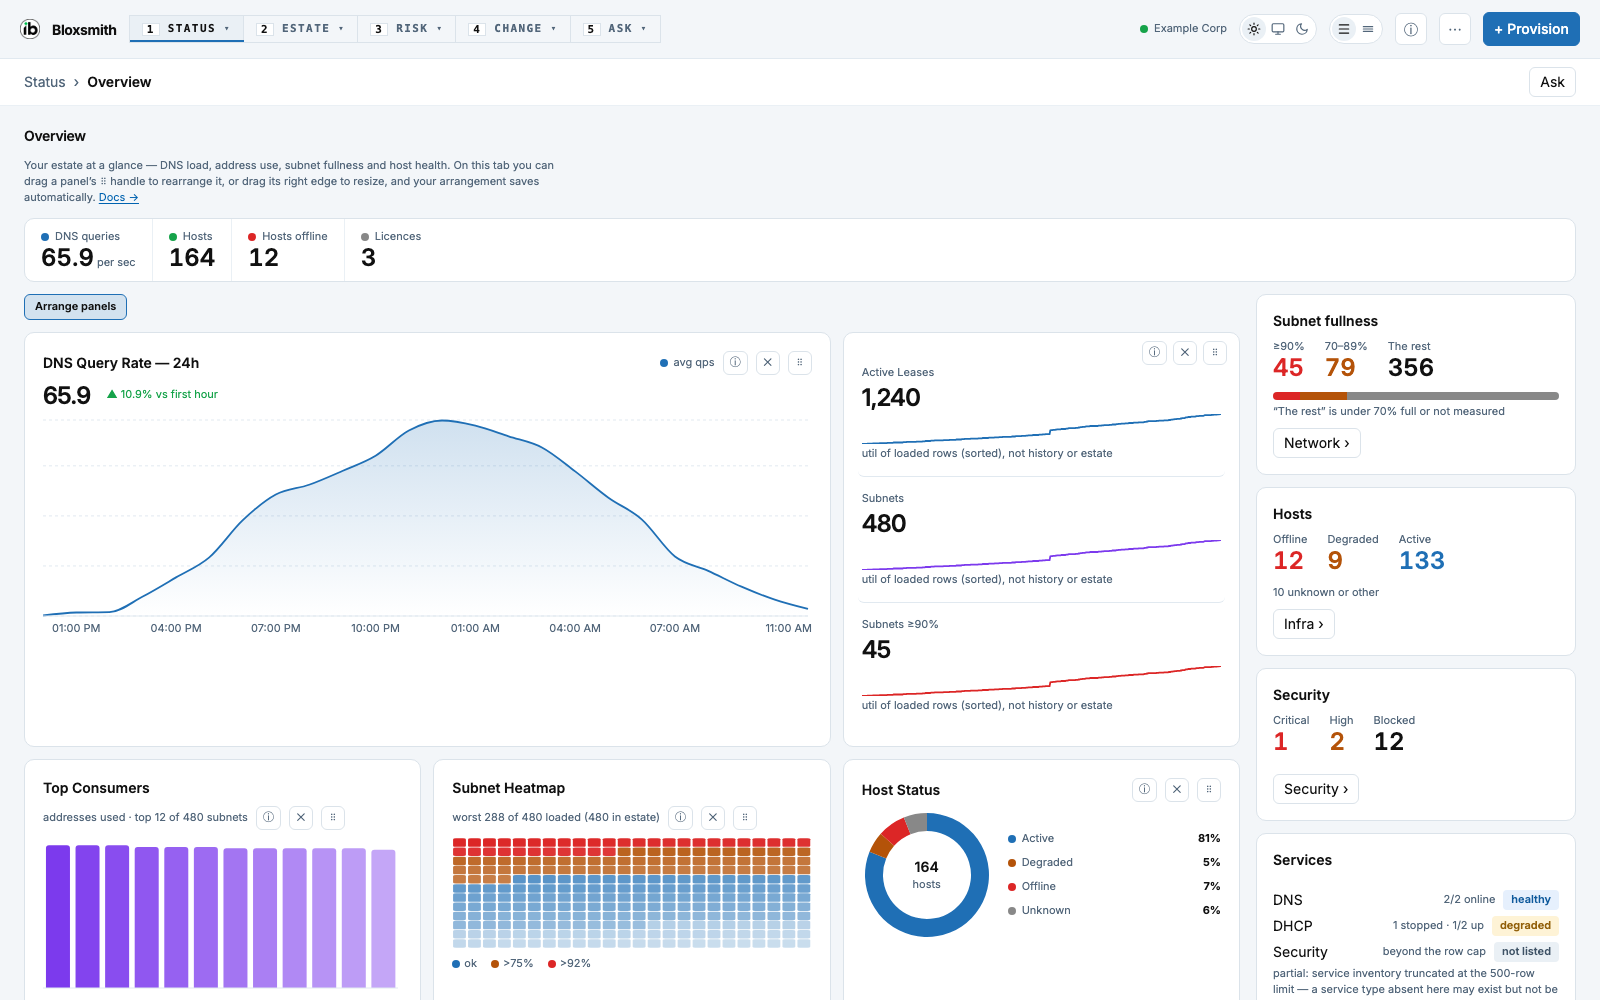
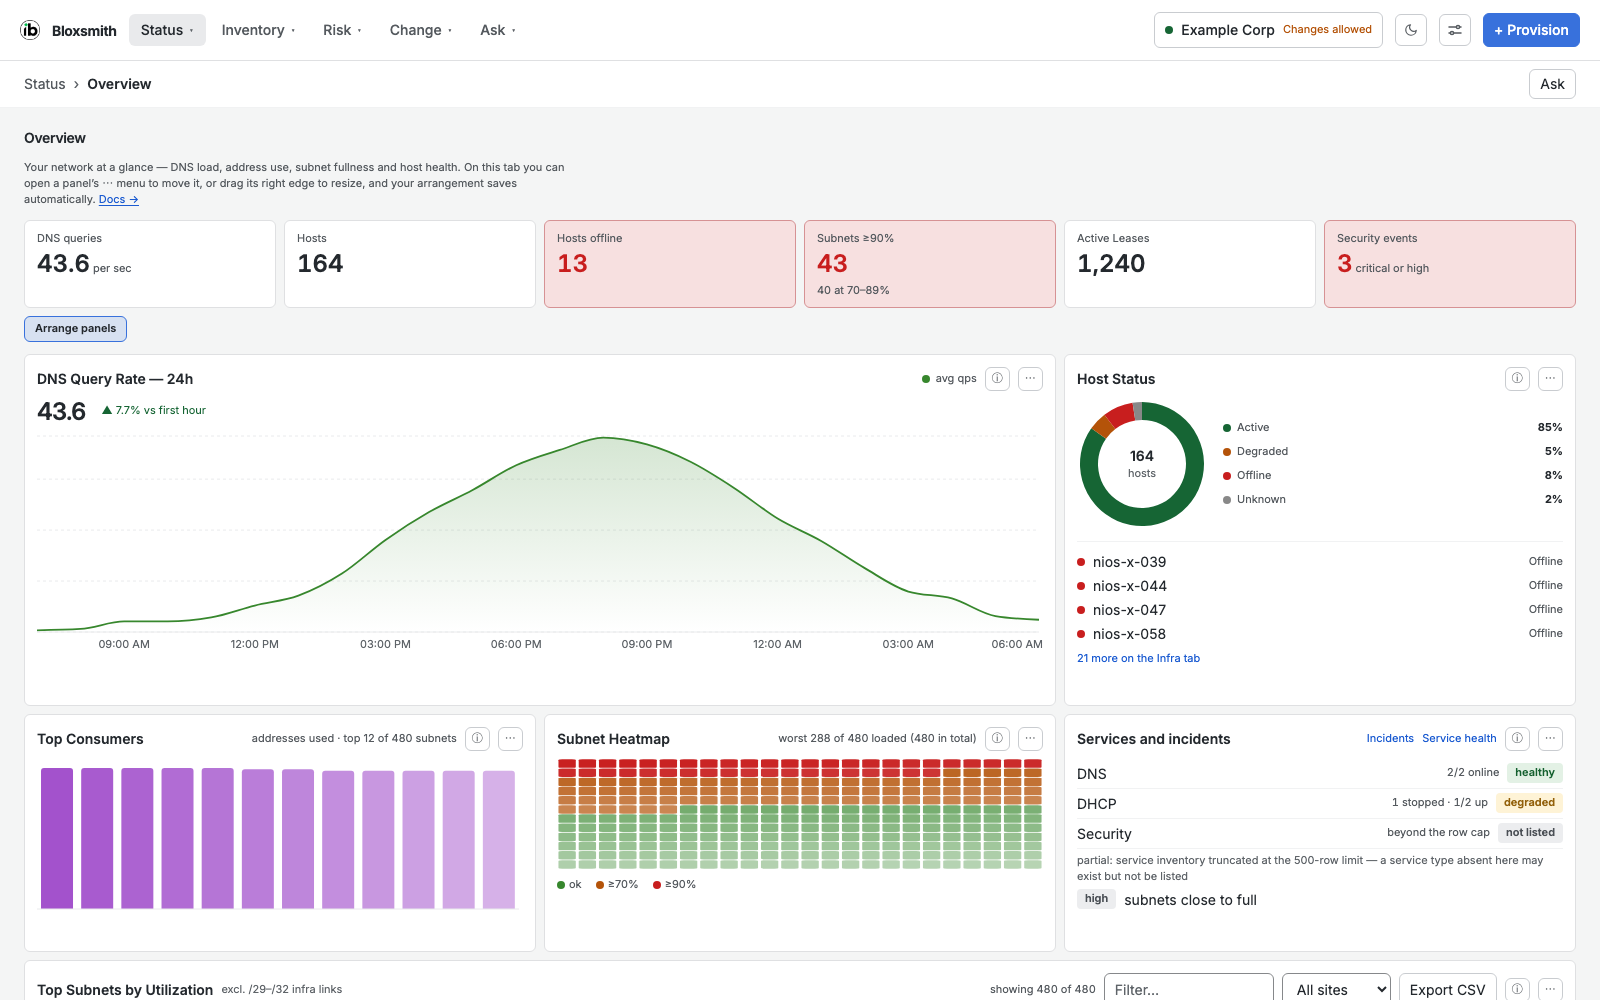
docs: README screenshots from v3.92.12, three stale lines fixed
The two README pictures showed the old menu (Estate, numbered tabs)
and colours. New ones are from the current build at 1600x1000, dark and
light, with invented data only: Example Corp, nios-x-NNN hosts, vlan-N
subnets, 10.x space.

The AI key is set under Settings > Connections now, not a sidebar. The
diagram names the REST APIs as well as /mcp. Go must be 1.26.9 or newer,
as go.mod says.

diff --git a/README.md b/README.md
@@ -212,7 +212,7 @@ See **Code signing** below.
 
 The query box needs an AI model that can call tools. Everything else works without it. The
 default is Groq, which has a free tier: get a key at <https://console.groq.com>, then add it in
-the dashboard (sidebar > **AI provider**) or set `GROQ_API_KEY`. Any OpenAI-compatible provider
+the dashboard (**Settings** > **Connections**, in the **Groq API key** box) or set `GROQ_API_KEY`. Any OpenAI-compatible provider
 works: [docs/DEPLOYMENT.md](docs/DEPLOYMENT.md#using-a-different-llm-provider).
 
 </details>
@@ -431,19 +431,19 @@ Report signing problems in the GitHub issue tracker.
 <summary><b>How it works</b></summary>
 
 ```
-browser --HTTP--> bloxsmith (Go program) --MCP--> csp.infoblox.com/mcp
+browser --HTTP--> bloxsmith (Go program) --HTTPS--> csp.infoblox.com (REST APIs and /mcp)
                         \-- optional: AI model (Groq or OpenAI-compatible)
 ```
 
-A browser cannot call the Infoblox MCP endpoint directly, so the Go program sits in between and
-holds your API key.
+A browser cannot call the Infoblox APIs directly, so the Go program sits in between and holds
+your API key.
 
 </details>
 
 <details>
 <summary><b>Build, run and test</b></summary>
 
-You need Go 1.26 or newer and Node.js 24.
+You need Go 1.26.9 or newer and Node.js 24.
 
 ```bash
 # get the code
